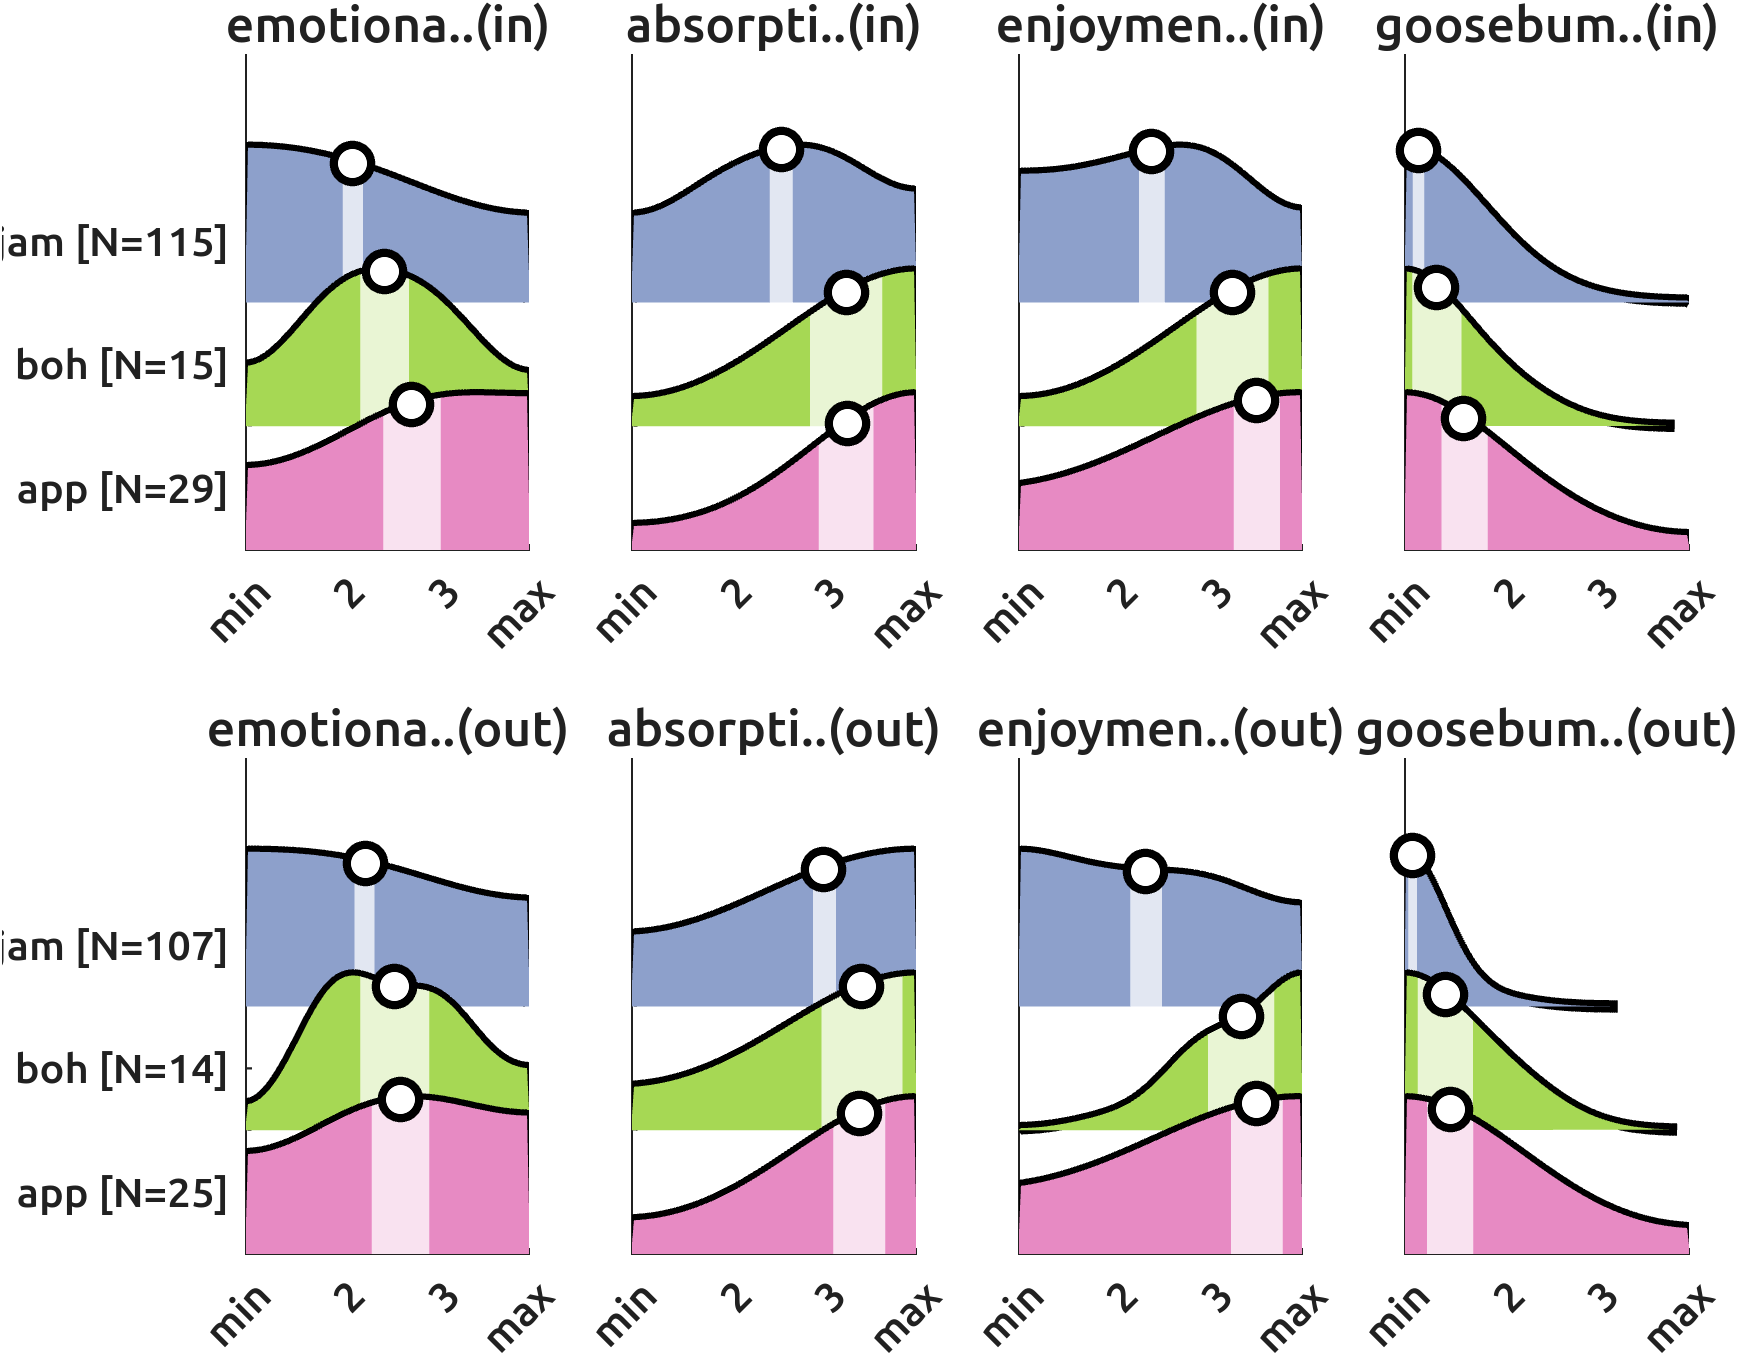
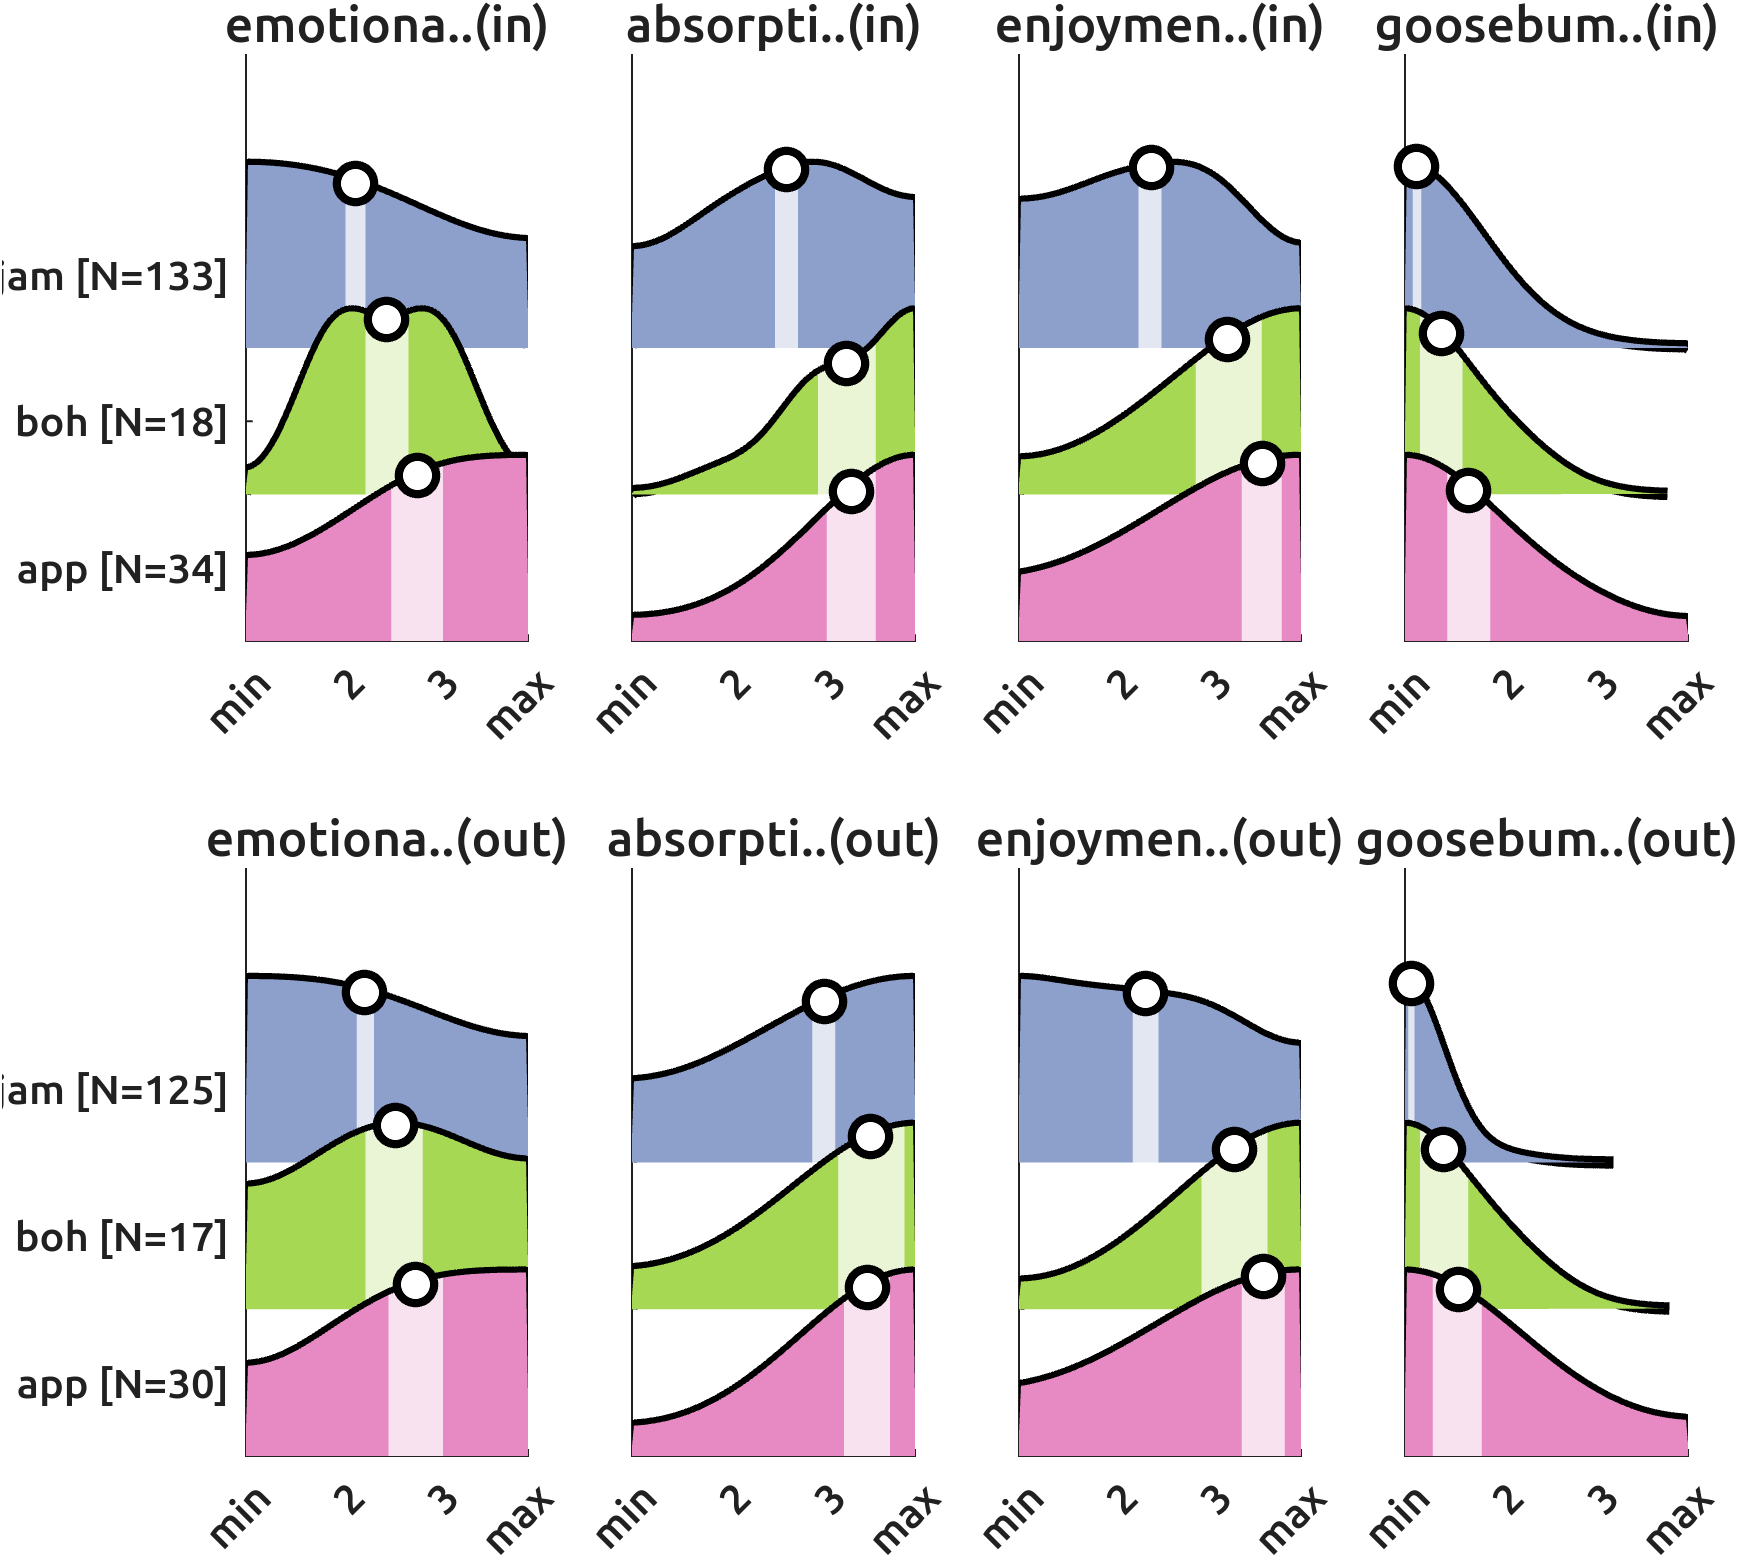
MAF_IMPORT:autoupdate

diff --git a/index.md b/index.md
@@ -5,7 +5,7 @@ nav_order: 0
 ---
 
 # Overview of the current progress
-Here, the current (26-May-2026 18:30:11 `Europe/Berlin`) progress of the fMRI+ data acquisition of the [ManyMusic](https://manymusic.net/) project is shared. Please direct any questions to [Dr. Seung-Goo Kim](mailto:seung-goo.kim@ae.mpg.de).
+Here, the current (28-May-2026 20:30:22 `Europe/Berlin`) progress of the fMRI+ data acquisition of the [ManyMusic](https://manymusic.net/) project is shared. Please direct any questions to [Dr. Seung-Goo Kim](mailto:seung-goo.kim@ae.mpg.de).
 
 ## Current acquisition
 
